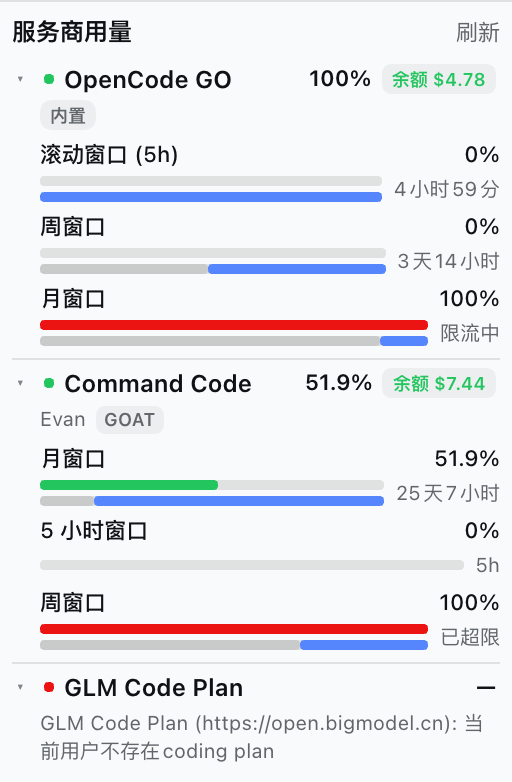
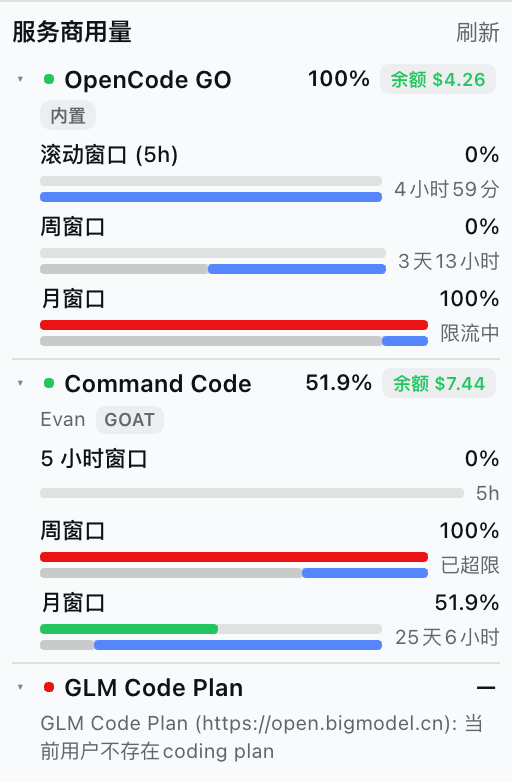
fix: keep the Command Code monthly window last

diff --git a/lib/providers.js b/lib/providers.js
@@ -577,14 +577,15 @@ export async function readCommandCode(input) {
 		monthlyCap = planInfo.totalCredits;
 		monthlyPercent = monthlyCap > 0 ? ((monthlyCap - Math.max(0, monthlyRemaining)) / monthlyCap) * 100 : 0;
 	}
+	let monthlyWindow = null;
 	if (monthlyPercent !== null) {
 		const start = periodStart === null ? null : Date.parse(periodStart);
 		const end = typeof subscription?.currentPeriodEnd === "string" ? Date.parse(subscription.currentPeriodEnd) : null;
-		windows.push(makeWindow("monthly", monthlyPercent, {
+		monthlyWindow = makeWindow("monthly", monthlyPercent, {
 			status: monthlyPercent >= 100 ? "exceeded" : "ok",
 			resetsAt: subscription?.currentPeriodEnd,
 			windowMs: Number.isFinite(start) && Number.isFinite(end) && end > start ? end - start : null
-		}));
+		});
 	}
 
 	// 5-hour and weekly rolling windows. `resetAt` is epoch milliseconds and 0
@@ -601,6 +602,8 @@ export async function readCommandCode(input) {
 			resetsAt: limit.resetAt
 		}));
 	}
+	// The monthly billing window always renders last for Command Code.
+	if (monthlyWindow !== null) windows.push(monthlyWindow);
 
 	const extraCredits = purchasedRemaining !== null || freeRemaining !== null
 		? (purchasedRemaining ?? 0) + (freeRemaining ?? 0)

diff --git a/README.md b/README.md
@@ -142,7 +142,7 @@ path and never touches the other plugin.
 | Provider | Windows | Window length |
 |---|---|---|
 | OpenCode GO | `rolling`, `weekly`, `monthly` | 5 h, 7 d, ~30 d |
-| Command Code | `monthly`, `five-hour`, `weekly` | real billing period, 5 h, 7 d |
+| Command Code | `five-hour`, `weekly`, `monthly` | 5 h, 7 d, real billing period |
 | GLM Code Plan | `five-hour`, `weekly`, `mcp` | 5 h, 7 d, monthly |
 
 Percentages are **used** percentages and are clamped to `[0, 100]` for display.
